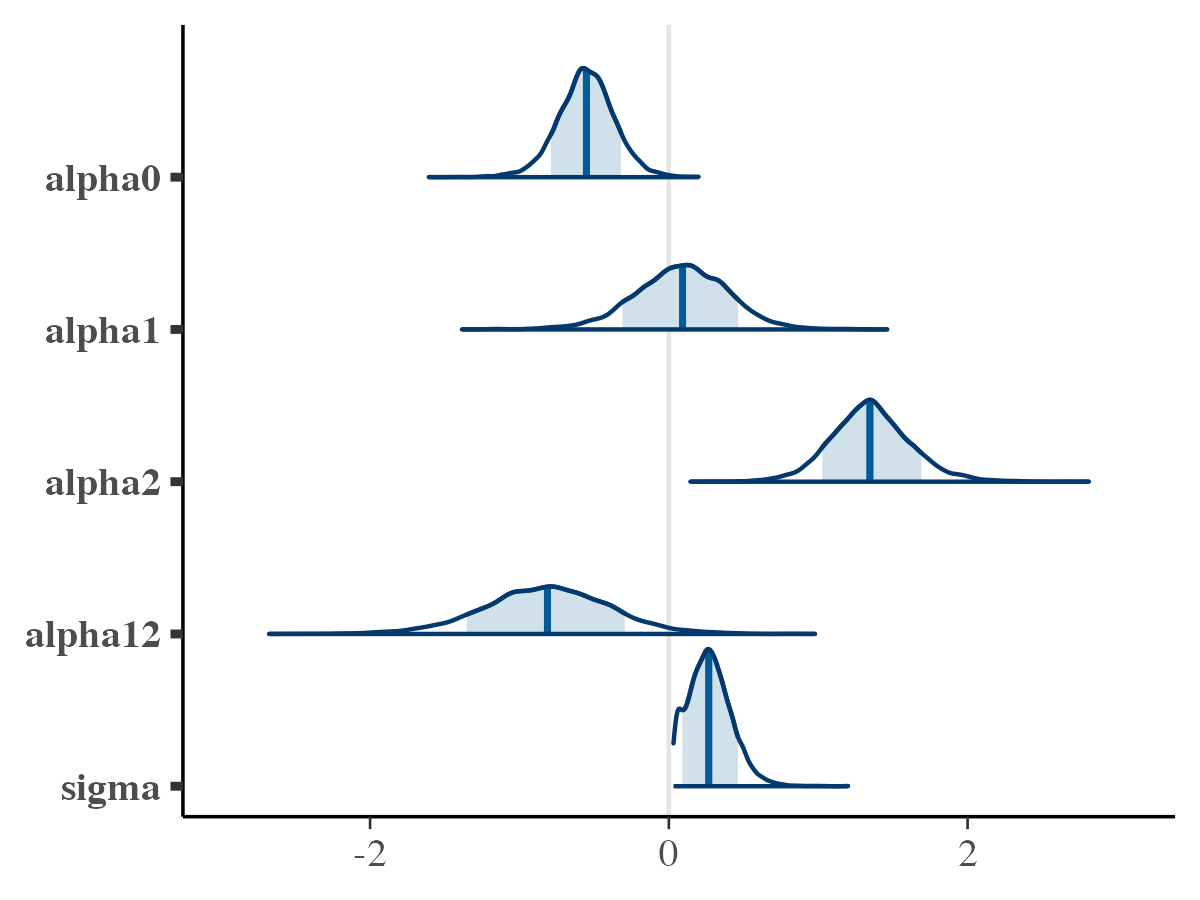
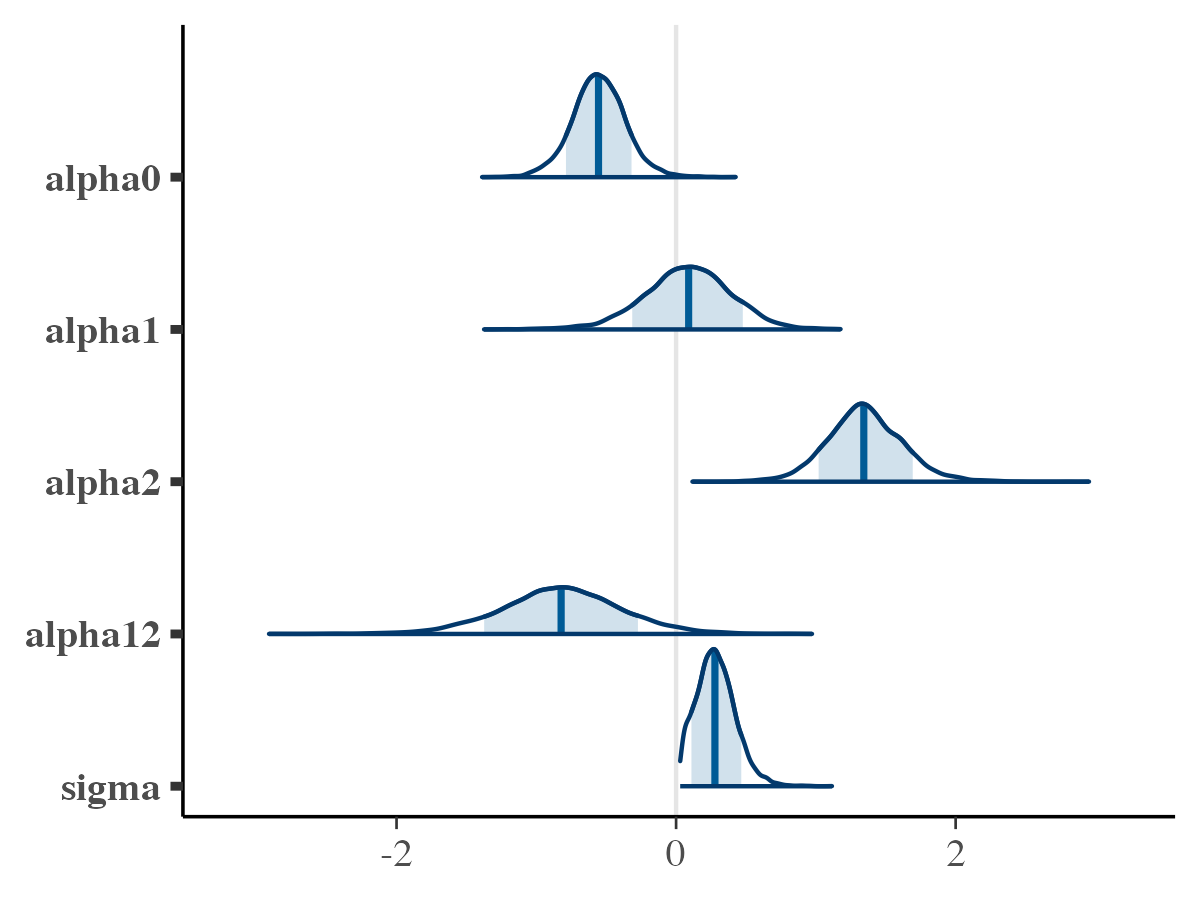
deploy: a9fd473e0ab7557b0a8dcf61e67f771c8015d01c

diff --git a/articles/rjuliabugs.html b/articles/rjuliabugs.html
@@ -259,17 +259,17 @@ through <code>summary</code> function</p>
 <span><span class="co">#&gt; </span></span>
 <span><span class="co">#&gt; Summary Statistics:</span></span>
 <span><span class="co">#&gt; </span></span>
-<span><span class="co">#&gt;  parameters      mean      std      mcse ess_bulk ess_tail  rhat ess_per_sec</span></span>
-<span><span class="co">#&gt;         tau 53.520847 118.8452 12.264880    178.6      125 1.020          NA</span></span>
-<span><span class="co">#&gt;     alpha12 -0.818868   0.4232  0.007500   3175.6     4067 1.002          NA</span></span>
-<span><span class="co">#&gt;      alpha2  1.352165   0.2682  0.005025   2856.6     4002 1.003          NA</span></span>
-<span><span class="co">#&gt;      alpha1  0.084358   0.3134  0.005652   3028.2     4312 1.002          NA</span></span>
-<span><span class="co">#&gt;      alpha0 -0.552727   0.1903  0.003353   3199.7     3703 1.002          NA</span></span>
-<span><span class="co">#&gt;        b[1] -0.185937   0.2541  0.006127   1794.4     3777 1.002          NA</span></span>
-<span><span class="co">#&gt;        b[2]  0.008814   0.2197  0.002808   6121.0     4678 1.005          NA</span></span>
-<span><span class="co">#&gt;        b[3] -0.193122   0.2275  0.005852   1487.7     3922 1.002          NA</span></span>
-<span><span class="co">#&gt;        b[4]  0.260349   0.2590  0.008387    968.7     3588 1.007          NA</span></span>
-<span><span class="co">#&gt;        b[5]  0.113036   0.2340  0.004378   3181.8     4286 1.004          NA</span></span>
+<span><span class="co">#&gt;  parameters      mean      std     mcse ess_bulk ess_tail  rhat ess_per_sec</span></span>
+<span><span class="co">#&gt;         tau 42.788637 102.6157 7.991592    292.6    225.9 1.023          NA</span></span>
+<span><span class="co">#&gt;     alpha12 -0.824024   0.4386 0.007477   3406.0   4138.7 1.001          NA</span></span>
+<span><span class="co">#&gt;      alpha2  1.352361   0.2711 0.004696   3342.0   4177.7 1.001          NA</span></span>
+<span><span class="co">#&gt;      alpha1  0.082199   0.3150 0.005390   3437.4   4353.1 1.001          NA</span></span>
+<span><span class="co">#&gt;      alpha0 -0.552213   0.1933 0.003337   3348.2   4361.6 1.000          NA</span></span>
+<span><span class="co">#&gt;        b[1] -0.200078   0.2631 0.005949   2032.6   3902.5 1.002          NA</span></span>
+<span><span class="co">#&gt;        b[2]  0.008764   0.2171 0.002871   5839.9   4667.1 1.007          NA</span></span>
+<span><span class="co">#&gt;        b[3] -0.201148   0.2358 0.005439   1862.9   4174.2 1.003          NA</span></span>
+<span><span class="co">#&gt;        b[4]  0.272750   0.2573 0.007719   1111.8   4341.0 1.007          NA</span></span>
+<span><span class="co">#&gt;        b[5]  0.114604   0.2338 0.003877   3950.1   4255.9 1.003          NA</span></span>
 <span><span class="co">#&gt;          ...</span></span>
 <span><span class="co">#&gt;   17 rows omitted</span></span></code></pre></div>
 <p>If we wish to obtain the summary statistics for each saved parameter,
@@ -380,7 +380,7 @@ package:</p>
 <span></span>
 <span><span class="co"># Example: effective sample size</span></span>
 <span><span class="fu">posterior</span><span class="fu">::</span><span class="fu"><a href="https://mc-stan.org/posterior/reference/ess_basic.html" class="external-link">ess_basic</a></span><span class="op">(</span><span class="va">posterior</span><span class="op">$</span><span class="va">params</span><span class="op">[</span>,,<span class="st">"alpha0"</span><span class="op">]</span><span class="op">)</span></span>
-<span><span class="co">#&gt; [1] 3219.338</span></span></code></pre></div>
+<span><span class="co">#&gt; [1] 3356.683</span></span></code></pre></div>
 </div>
 <div class="section level2">
 <h2 id="saving-and-loading-the-rjuliabugs-model">Saving and loading the <code>rjuliabugs</code> model<a class="anchor" aria-label="anchor" href="#saving-and-loading-the-rjuliabugs-model"></a>

diff --git a/index.html b/index.html
@@ -76,7 +76,7 @@
 <code class="sourceCode R"><span><span class="co"># install.packages("remotes")</span></span>
 <span><span class="fu">remotes</span><span class="fu">::</span><span class="fu"><a href="https://remotes.r-lib.org/reference/install_github.html" class="external-link">install_github</a></span><span class="op">(</span><span class="st">"MateusMaiaDS/rjuliabugs"</span><span class="op">)</span></span></code></pre></div>
 <p>⚠ <strong>Loading the package</strong>:<br>
-When starting a R session for the first time, after loading the package <code>rjuliabugs</code> and before running any function, we recommend to run <code><a href="reference/setup_juliaBUGS.html">?rjuliabugs::setup_juliaBUGS</a></code> to build all Julia setup in R and install any needed dependencies. We recommend this initially as it an be time-consuming. See <code><a href="reference/setup_juliaBUGS.html">?rjuliabugs::setup_juliaBUGS</a></code> for more details.</p>
+When starting a R session for the first time, after loading the package <code>rjuliabugs</code> and before running any function, we recommend to run <code><a href="reference/setup_juliaBUGS.html">rjuliabugs::setup_juliaBUGS()</a></code> to build all Julia setup in R and install any needed dependencies. We recommend this initially as it an be time-consuming. See <code><a href="reference/setup_juliaBUGS.html">?rjuliabugs::setup_juliaBUGS</a></code> for more details.</p>
 <p>For further guidance, there articles in this page which summarize most of the FAQ and additional instructions for installing Julia and setting <code>rjuliabugs</code>, troubleshooting, and running <code>rjuliabugs</code> in parallel. We recommend the reading of them before working with <code>rjuliabugs</code>:</p>
 <ul>
 <li><a href="https://mateusmaiads.github.io/rjuliabugs/articles/setup_troubleshooting.html#installing-julia">Installing Julia</a></li>
